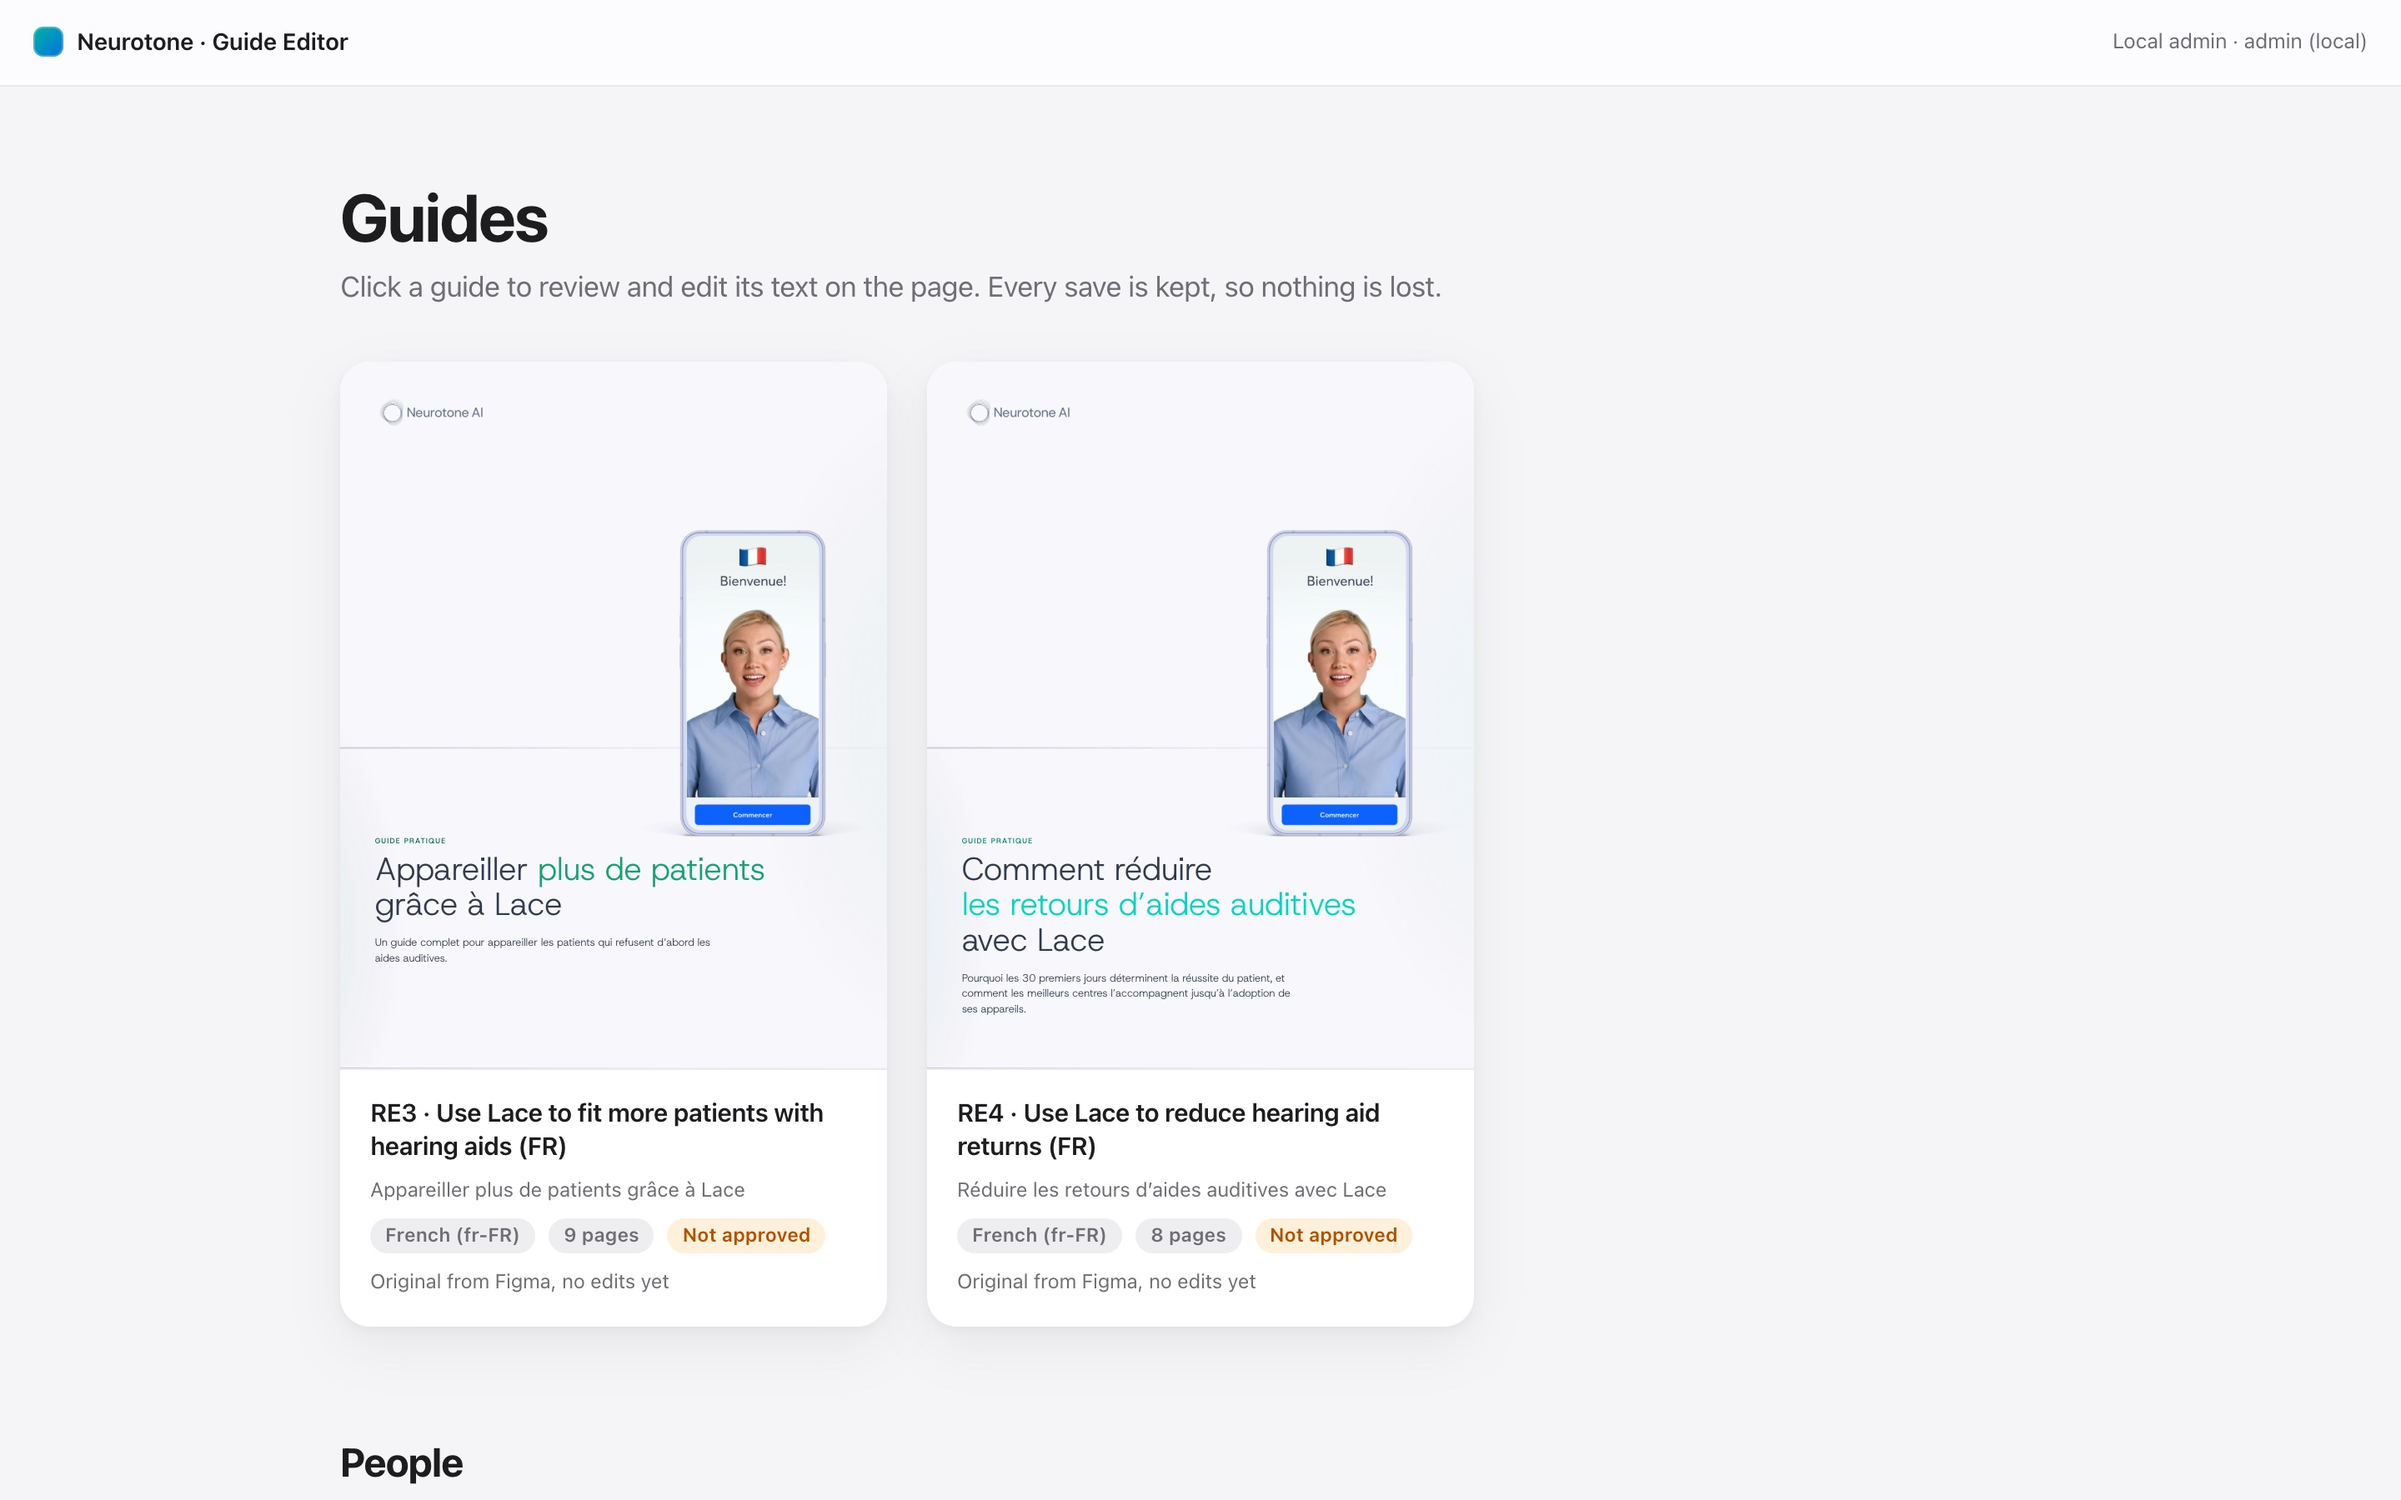
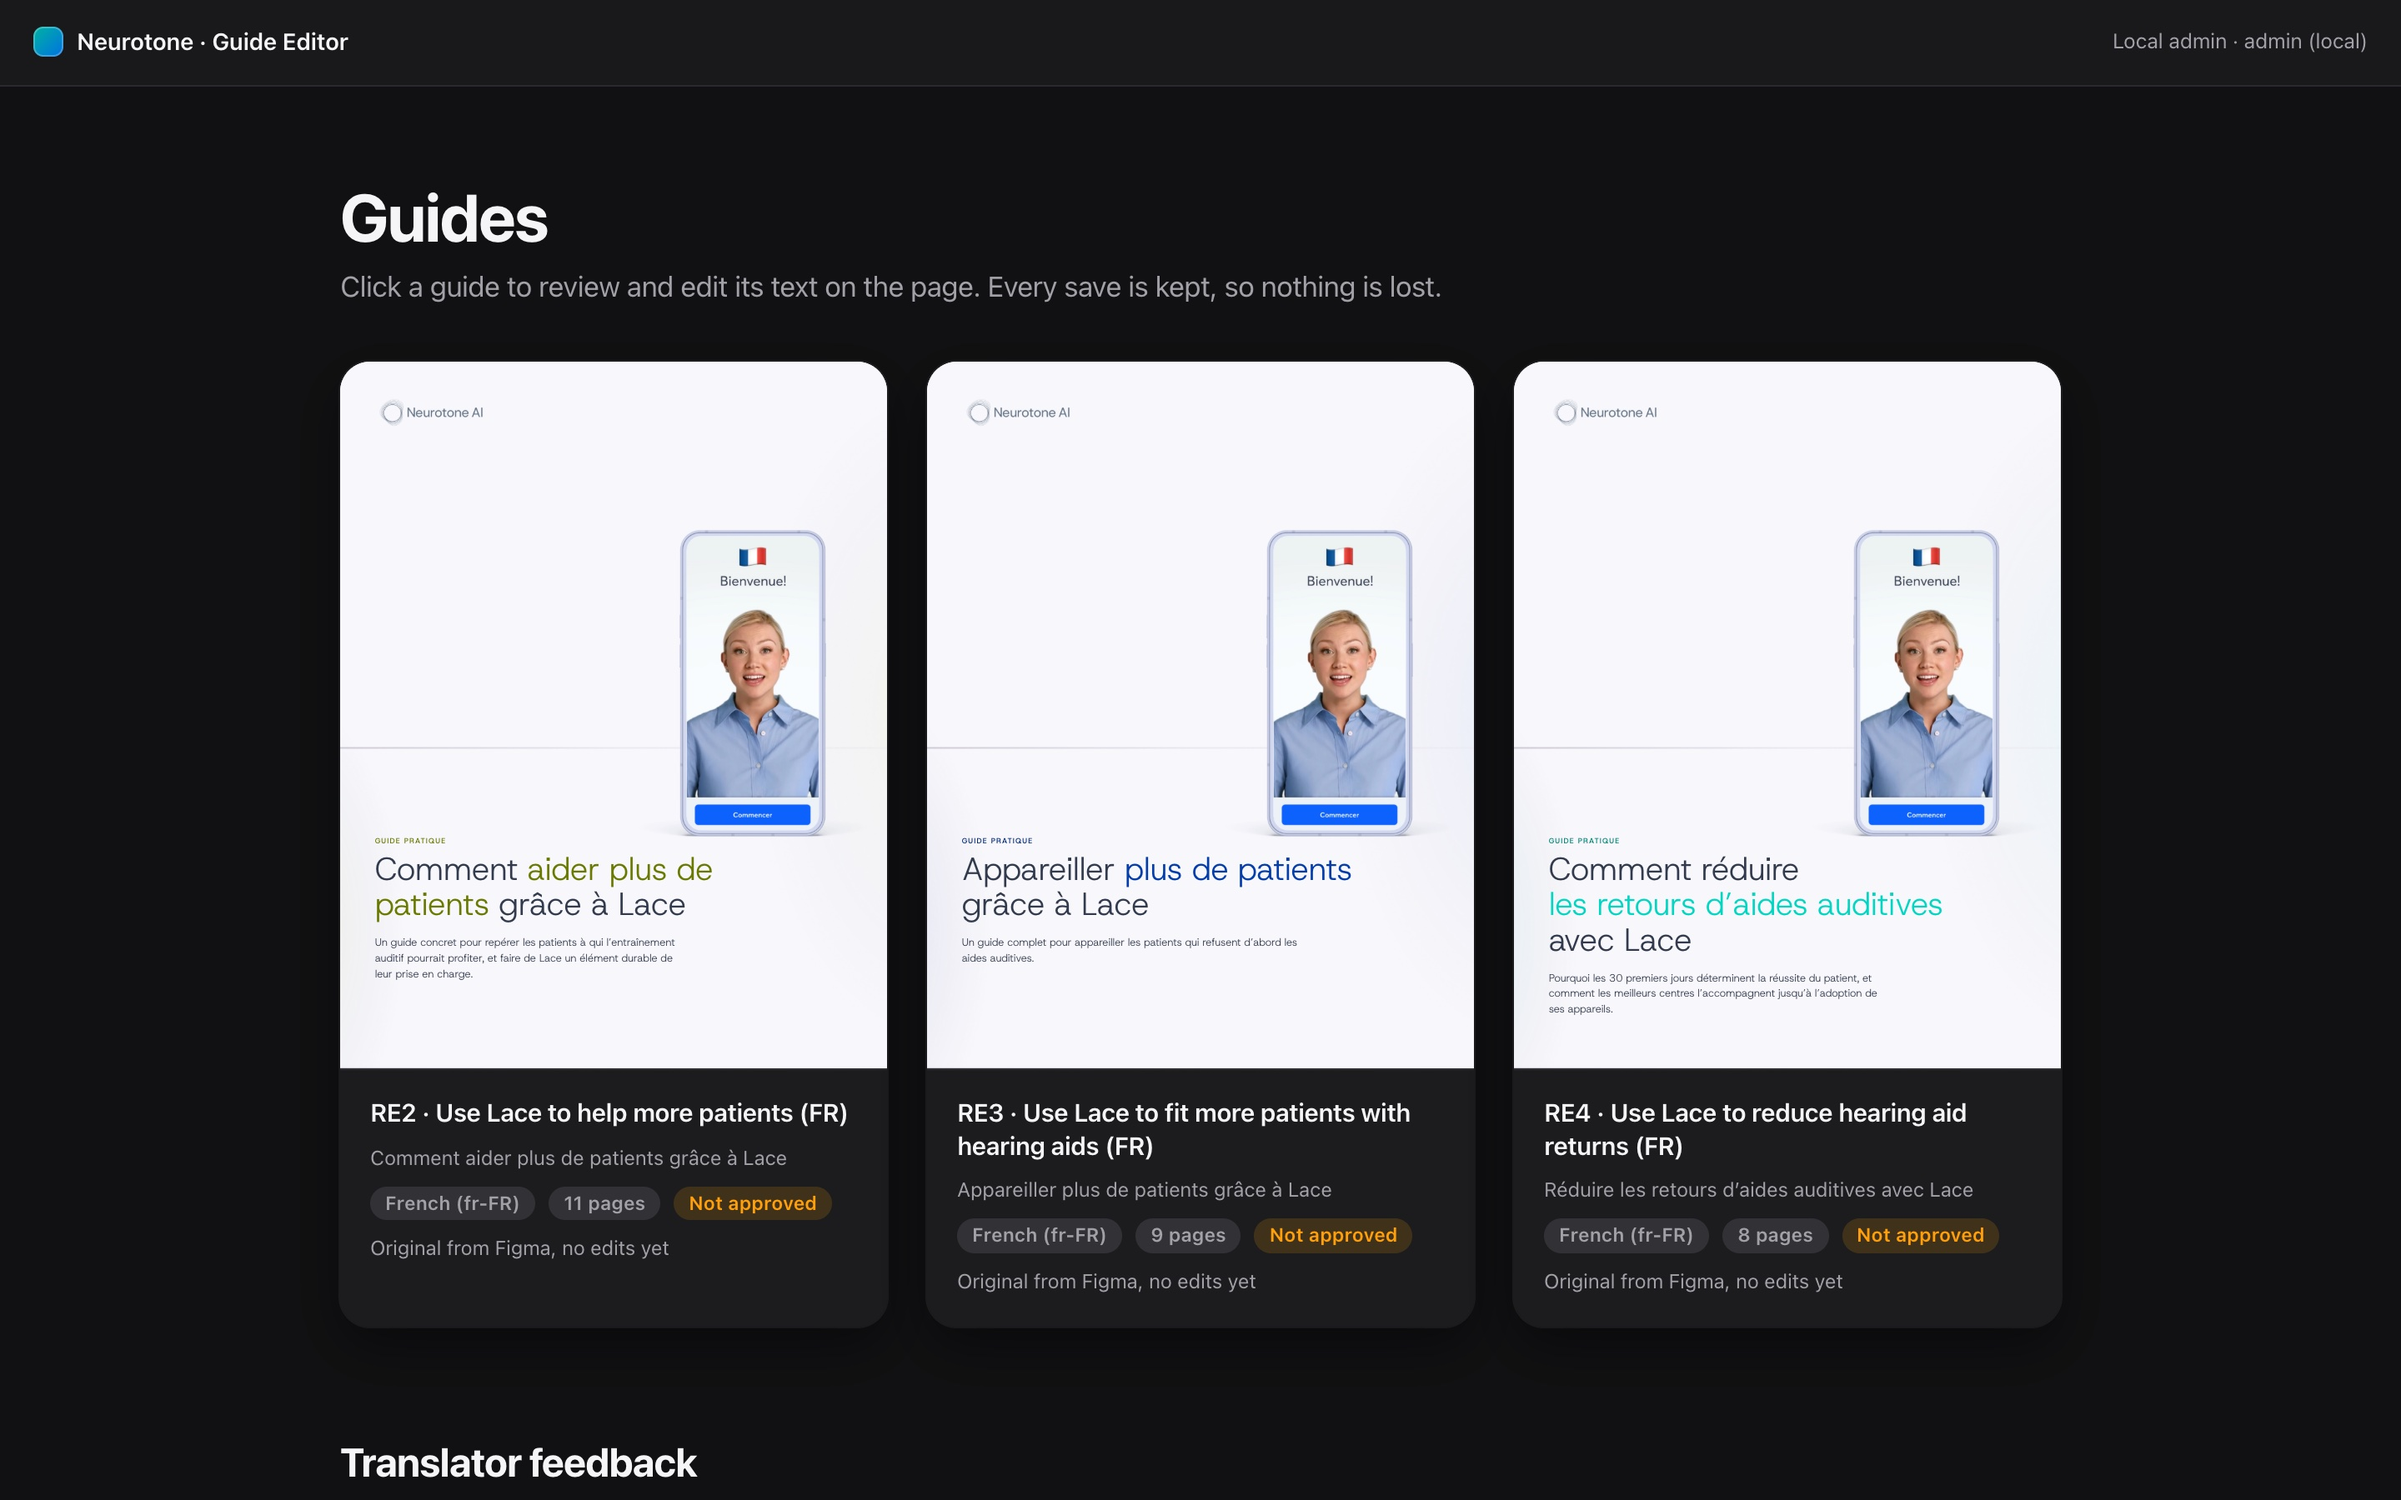
Update Guide Editor case study with AI translation feedback loop
Adds the "Why did you change this?" prompt and the lesson loop into the
translation prompt, updates pilot numbers to three guides and 28 pages,
covers the new restore flow, and re-shoots all screens in the dark UI.

diff --git a/lib/case-studies.ts b/lib/case-studies.ts
@@ -146,8 +146,8 @@ export const caseStudies: CaseStudy[] = [
     title: "Guide Editor",
     subtitle: "Translation Review Tool: translators edit the guide on the page, not in Figma",
     summary:
-      "Neurotone's provider guides are designed in Figma and translated by outside reviewers. I built a web editor that shows each translated guide exactly as the PDF looks, lets translators fix text on the page, flags any text that no longer fits, keeps every version, and exports the finished PDF.",
-    tags: ["Platform", "Regulated/Healthcare", "0→1"],
+      "Neurotone's provider guides are translated first by AI, then fixed by native reviewers. I built a web editor where translators fix text on the page, see instantly when it no longer fits, and download the finished PDF. Every fix comes with a reason, and those reasons become lessons that improve the next AI translation.",
+    tags: ["AI", "Platform", "Regulated/Healthcare", "0→1"],
     hero: "/images/work/guide-editor/hero.jpg",
     year: "2026",
     role: "Full-Stack Design & Engineering",
